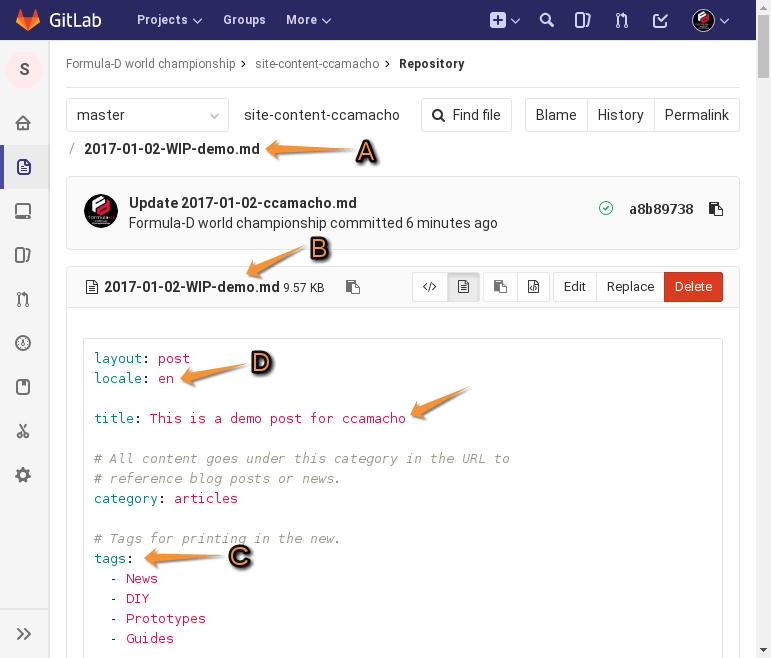
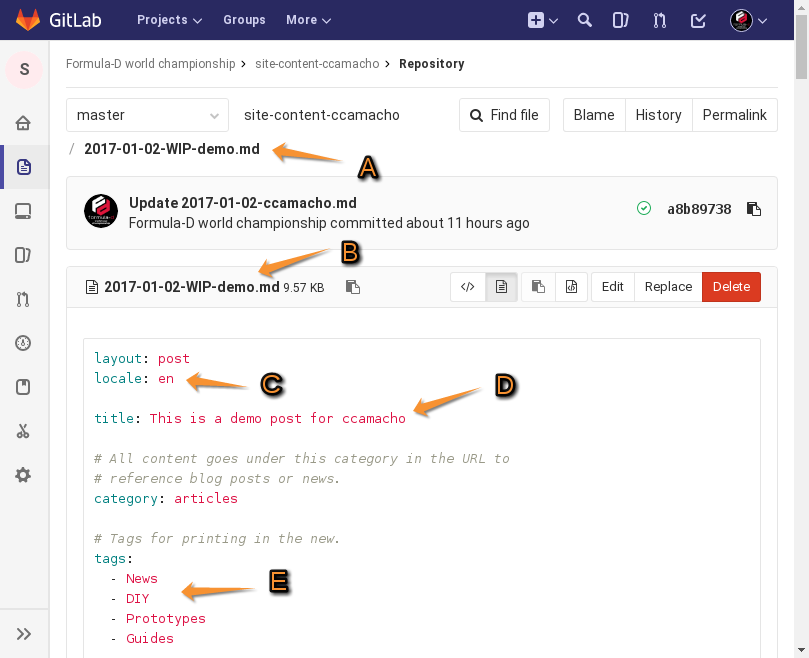
update tuto

diff --git a/README.md b/README.md
@@ -11,14 +11,14 @@ use GitLab for versioning and to control the
 deployment pipelines when a press team
 member publish new content to the site.
 
-## Accesing the content repository
+## Accessing the content repository
 
-This is the first view that a writher should see when posting new
+This is the first view that a writer should see when posting new
 content.
 
 ![](images/tutorial_00.png)
 
-* A: Content repo address. This is the current repository address ussually `site-content-<username>`.
+* A: Content repository address. This is the current repository address usually `site-content-<username>`.
 * B: Images folder. I this folder each writer can add their own pictures for their articles, there
 must be uploaded only JPG, PNG and GIF images.
 * C: Demo post with all markdown syntax. This is a demo post with all the information needed to create
@@ -35,49 +35,88 @@ publishing workflows.
 
 ![](images/tutorial_01.png)
 
-* A: The article language, it can be `en` if it's English or `es` if it's an Spanish article.
+* A: The article demo file path, here you can see the file you are updating.
+* B: The name to be updated.
+* C: The article language, it can be `en` if it's English or `es` if it's an Spanish article.
+* D: The article title.
+* E: The article tags, depending on the type of the article is necessary to comment those categories not
+related to the article, is only needed to add a `#` at the beginning of the line, for example:
+
+```
+tags:
+  - News
+#  - DIY
+#  - Prototypes
+#  - Guides
+```
+
+This will produce an article only published in the news section.
+
+
+![](images/tutorial_02.png)
+
+* A: The article location, by default they are in the home slider and published in the corresponding category.
 * B: The main article picture, this will be the picture displayed in the website's main page,
 also will be the main at the beginning of the article, the name must be
 `assets/images_articles/<username>/images/<image>`. The only that needs to be changes is the
 file name, as the example already have the correct path.
 * C: The author name
-* D: The author flickr picture id, this value will be provided in the example, so it shouldnt be
+* D: The author flickr picture id, this value will be provided in the example, so it shouldn't be
 needed to update it.
-* E: The writer gitlab user id, this valued is correctly provided in the example so it shouldnt be
+* E: The writer gitlab user id, this valued is correctly provided in the example so it shouldn't be
 needed to update it.
 * F: This value `published` is configured to false by default, once the article is revised and
-ready to be published an user with higher privileges will change it, it shoulnd't be updated
+ready to be published an user with higher privileges will change it, it shouldn't be updated
 by writers.
 
-
-![](images/tutorial_02.png)
+![](images/tutorial_03.png)
 
 * A: The article body, the syntax used for all articles in Markdown, so by default we provide a
 full example with all components that will be needed. Writers can update this as needed and all
 the parts not needed can be removed until the end of the file.
 
-![](images/tutorial_03.png)
+![](images/tutorial_04.png)
 
 * A: This is an example about the code required to add an image aligned to the left of the article.
-
-
-![](images/tutorial_04.png)
 
 ### How to upload a new post
 
 The first step is to download, rename the demo file and upload the new one.
+
 ![](images/tutorial_05.png)
 
-
-
+* A: The user needs to click the `+` button.
+* B: The user needs to click the `New file` button if they want to create a new file.
+* C: The user needs to click the `Upload file` button if they want to upload an existing file.
 
 ### How to upload a new image
+
 ![](images/tutorial_06.png)
 
-
+If the user needs to upload an image, the process is the same, in this case it must click first in the `images`
+folder and execute the following steps:
+* A: Verify that it will upload the image in the `images` folder.
+* B: Click in the `Upload file` option.
 
 ## How to verify the recently posted article
 
-## Finishing the process
-![](images/tutorial_07.png)
+There are several URL's to verify the articles in the mean time they are written, revised or published.
 
+* When a writer is finishing a new article it can be verified in the URL `http://draft.frmld.org` there depending 
+on the language (selected on the upper right corner) the writer can check the posts in their according section.
+The content sections are:
+
+* English news `http://draft.frmld.org/en/latest/news/`
+* English diy `http://draft.frmld.org/en/latest/diy/`
+* English guides `http://draft.frmld.org/en/latest/guides/`
+* English prototypes `http://draft.frmld.org/en/latest/prototypes/`
+
+* Spanish news `http://draft.frmld.org/es/latest/news/`
+* Spanish diy `http://draft.frmld.org/es/latest/diy/`
+* Spanish guides `http://draft.frmld.org/es/latest/guides/`
+* Spanish prototypes `http://draft.frmld.org/es/latest/prototypes/`
+
+## Finishing the process
+
+Once the process is finished a person with enough rights will change the published status to `true` (A).
+![](images/tutorial_07.png)
